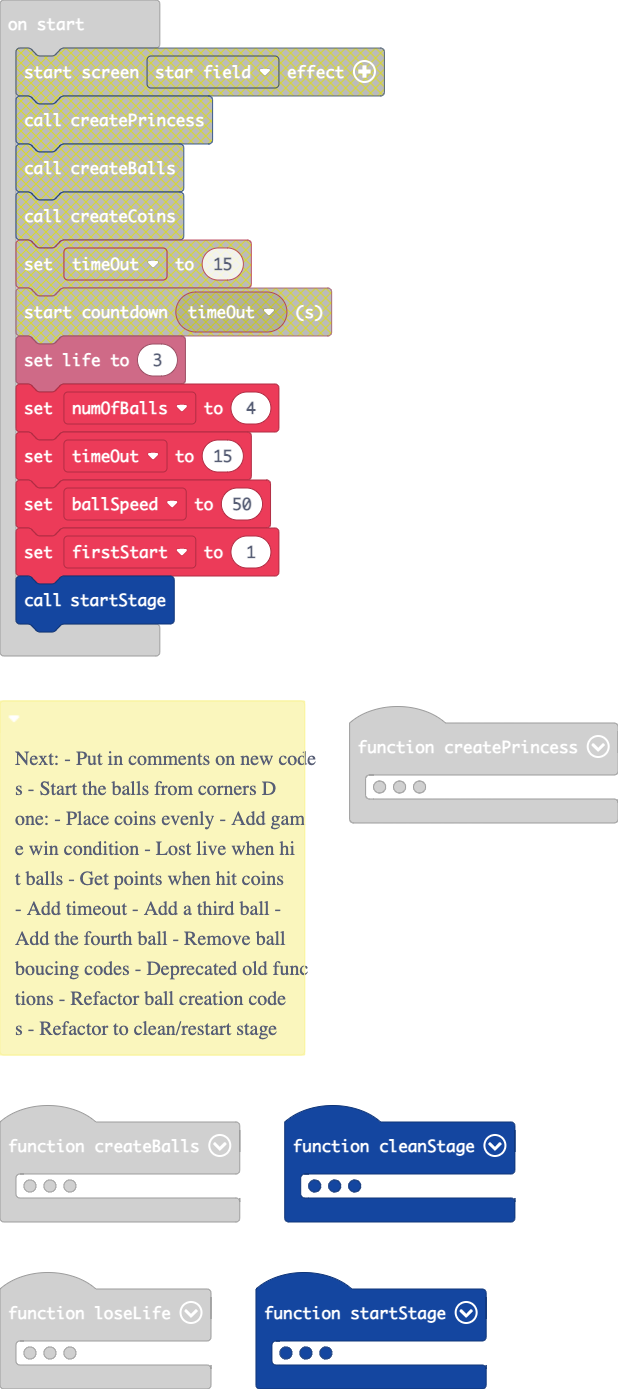
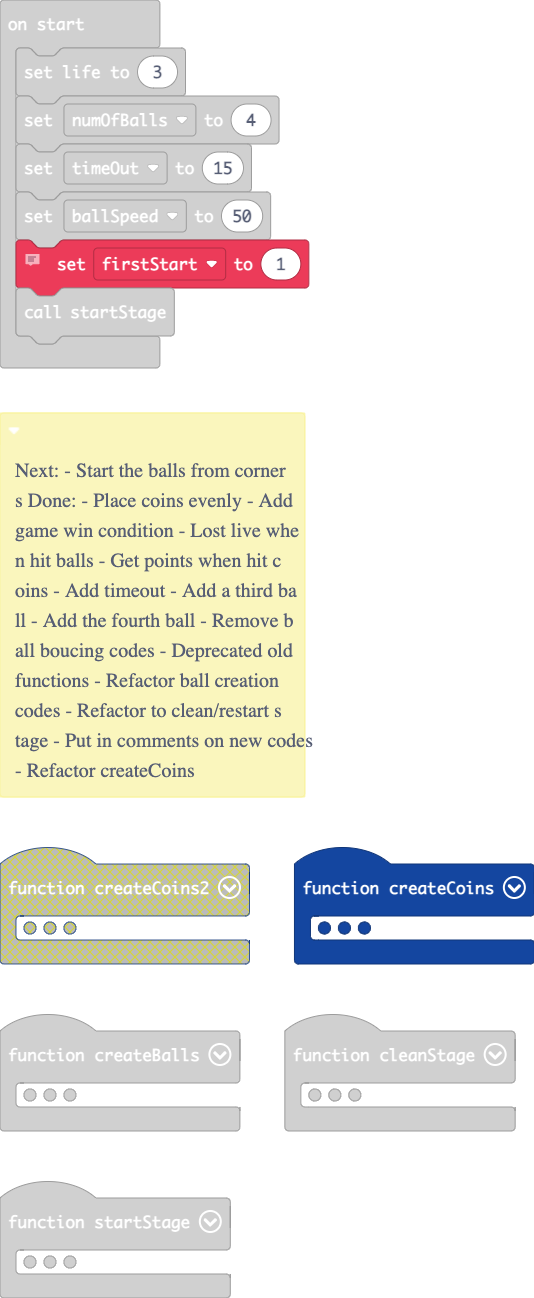
Refactor createCoins and add comments

diff --git a/main.ts b/main.ts
@@ -1,8 +1,6 @@
 /**
  * Next:
  * 
- * - Put in comments on new codes
- * 
  * - Start the balls from corners
  * 
  * Done:
@@ -28,6 +26,10 @@
  * - Refactor ball creation codes
  * 
  * - Refactor to clean/restart stage
+ * 
+ * - Put in comments on new codes
+ * 
+ * - Refactor createCoins
  */
 function createPrincess () {
     Princess = sprites.create(img`
@@ -53,9 +55,11 @@ function createPrincess () {
     controller.moveSprite(Princess)
 }
 function startStage () {
+    // only create background and coins when start game first time
     if (firstStart == 1) {
         effects.starField.startScreenEffect()
         createCoins()
+        // reset game first start flag
         firstStart = 0
     }
     createPrincess()
@@ -103,6 +107,7 @@ function deprecated_move (ball: Sprite) {
     }
 }
 function createBalls () {
+    // create an empty array for all enemy balls
     EnemyBalls = []
     for (let index = 0; index < numOfBalls; index++) {
         EnemyBall = sprites.create(img`
@@ -127,61 +132,29 @@ function createBalls () {
         EnemyBall.y = randint(40, scene.screenHeight() - 10)
         EnemyBall.setVelocity(ballSpeed, ballSpeed)
         EnemyBall.setBounceOnWall(true)
+        // add each ball to enemy balls array
         EnemyBalls.push(EnemyBall)
     }
 }
 function createCoins () {
-    for (let index = 0; index <= 9; index++) {
-        GoldCoin = sprites.create(img`
-            . . . b b b . . 
-            . . b 5 5 5 b . 
-            . b 5 d 3 d 5 b 
-            . b 5 1 5 3 5 b 
-            . c d 1 5 3 5 c 
-            . c d d 1 d 5 c 
-            . . f d d d f . 
-            . . . f f f . . 
-            `, SpriteKind.Food)
-        GoldCoin.setPosition((index + 1) * 15, 50)
-    }
-    for (let index = 0; index <= 9; index++) {
-        GoldCoin = sprites.create(img`
-            . . . b b b . . 
-            . . b 5 5 5 b . 
-            . b 5 d 3 d 5 b 
-            . b 5 1 5 3 5 b 
-            . c d 1 5 3 5 c 
-            . c d d 1 d 5 c 
-            . . f d d d f . 
-            . . . f f f . . 
-            `, SpriteKind.Food)
-        GoldCoin.setPosition((index + 1) * 15, 70)
-    }
-    for (let index = 0; index <= 9; index++) {
-        GoldCoin = sprites.create(img`
-            . . . b b b . . 
-            . . b 5 5 5 b . 
-            . b 5 d 3 d 5 b 
-            . b 5 1 5 3 5 b 
-            . c d 1 5 3 5 c 
-            . c d d 1 d 5 c 
-            . . f d d d f . 
-            . . . f f f . . 
-            `, SpriteKind.Food)
-        GoldCoin.setPosition((index + 1) * 15, 90)
-    }
-    for (let index = 0; index <= 9; index++) {
-        GoldCoin = sprites.create(img`
-            . . . b b b . . 
-            . . b 5 5 5 b . 
-            . b 5 d 3 d 5 b 
-            . b 5 1 5 3 5 b 
-            . c d 1 5 3 5 c 
-            . c d d 1 d 5 c 
-            . . f d d d f . 
-            . . . f f f . . 
-            `, SpriteKind.Food)
-        GoldCoin.setPosition((index + 1) * 15, 110)
+    // set coins starting position Y
+    coinsPosY = 50
+    for (let index = 0; index < 4; index++) {
+        for (let index = 0; index <= 9; index++) {
+            GoldCoin = sprites.create(img`
+                . . . b b b . . 
+                . . b 5 5 5 b . 
+                . b 5 d 3 d 5 b 
+                . b 5 1 5 3 5 b 
+                . c d 1 5 3 5 c 
+                . c d d 1 d 5 c 
+                . . f d d d f . 
+                . . . f f f . . 
+                `, SpriteKind.Food)
+            GoldCoin.setPosition((index + 1) * 15, coinsPosY)
+        }
+        // move to coins next position Y
+        coinsPosY += 20
     }
 }
 sprites.onOverlap(SpriteKind.Player, SpriteKind.Food, function (sprite, otherSprite) {
@@ -191,6 +164,7 @@ sprites.onOverlap(SpriteKind.Player, SpriteKind.Food, function (sprite, otherSpr
 })
 function cleanStage () {
     Princess.destroy()
+    // destroy all elements in EnemyBalls array
     for (let index = 0; index <= EnemyBalls.length - 1; index++) {
         EnemyBalls[index].destroy()
     }
@@ -215,6 +189,7 @@ function createCoins_atRandPos () {
     }
 }
 let GoldCoin: Sprite = null
+let coinsPosY = 0
 let EnemyBall: Sprite = null
 let EnemyBalls: Sprite[] = []
 let Princess: Sprite = null
@@ -226,6 +201,7 @@ info.setLife(3)
 numOfBalls = 4
 timeOut = 15
 ballSpeed = 50
+// set game start flag for startStage
 firstStart = 1
 startStage()
 game.onUpdateInterval(500, function () {

diff --git a/images.g.ts b/images.g.ts
@@ -31,46 +31,6 @@ f b b 4 1 f d d f 1 4 b b f
 . . f d d d f . 
 . . . f f f . . 
 `;
-            case "image4":return img`
-. . . b b b . . 
-. . b 5 5 5 b . 
-. b 5 d 3 d 5 b 
-. b 5 1 5 3 5 b 
-. c d 1 5 3 5 c 
-. c d d 1 d 5 c 
-. . f d d d f . 
-. . . f f f . . 
-`;
-            case "image5":return img`
-. . . b b b . . 
-. . b 5 5 5 b . 
-. b 5 d 3 d 5 b 
-. b 5 1 5 3 5 b 
-. c d 1 5 3 5 c 
-. c d d 1 d 5 c 
-. . f d d d f . 
-. . . f f f . . 
-`;
-            case "image6":return img`
-. . . b b b . . 
-. . b 5 5 5 b . 
-. b 5 d 3 d 5 b 
-. b 5 1 5 3 5 b 
-. c d 1 5 3 5 c 
-. c d d 1 d 5 c 
-. . f d d d f . 
-. . . f f f . . 
-`;
-            case "image7":return img`
-. . . b b b . . 
-. . b 5 5 5 b . 
-. b 5 d 3 d 5 b 
-. b 5 1 5 3 5 b 
-. c d 1 5 3 5 c 
-. c d d 1 d 5 c 
-. . f d d d f . 
-. . . f f f . . 
-`;
             case "image10":return img`
 . . . . . f f f f . . . . . 
 . . . f f 5 5 5 5 f f . . . 
@@ -350,6 +310,96 @@ f b b 4 1 f d d f 1 4 b b f
 . . . . 4 4 2 2 2 2 4 4 . . . . 
 . . . . . . 4 4 4 4 . . . . . . 
 . . . . . . . . . . . . . . . . 
+`;
+            case "image2":return img`
+. . . b b b . . 
+. . b 5 5 5 b . 
+. b 5 d 3 d 5 b 
+. b 5 1 5 3 5 b 
+. c d 1 5 3 5 c 
+. c d d 1 d 5 c 
+. . f d d d f . 
+. . . f f f . . 
+`;
+            case "image4":return img`
+. . . b b b . . 
+. . b 5 5 5 b . 
+. b 5 d 3 d 5 b 
+. b 5 1 5 3 5 b 
+. c d 1 5 3 5 c 
+. c d d 1 d 5 c 
+. . f d d d f . 
+. . . f f f . . 
+`;
+            case "image5":return img`
+. . . b b b . . 
+. . b 5 5 5 b . 
+. b 5 d 3 d 5 b 
+. b 5 1 5 3 5 b 
+. c d 1 5 3 5 c 
+. c d d 1 d 5 c 
+. . f d d d f . 
+. . . f f f . . 
+`;
+            case "image6":return img`
+. . . b b b . . 
+. . b 5 5 5 b . 
+. b 5 d 3 d 5 b 
+. b 5 1 5 3 5 b 
+. c d 1 5 3 5 c 
+. c d d 1 d 5 c 
+. . f d d d f . 
+. . . f f f . . 
+`;
+            case "image7":return img`
+. . . b b b . . 
+. . b 5 5 5 b . 
+. b 5 d 3 d 5 b 
+. b 5 1 5 3 5 b 
+. c d 1 5 3 5 c 
+. c d d 1 d 5 c 
+. . f d d d f . 
+. . . f f f . . 
+`;
+            case "image8":return img`
+. . . b b b . . 
+. . b 5 5 5 b . 
+. b 5 d 3 d 5 b 
+. b 5 1 5 3 5 b 
+. c d 1 5 3 5 c 
+. c d d 1 d 5 c 
+. . f d d d f . 
+. . . f f f . . 
+`;
+            case "image9":return img`
+. . . b b b . . 
+. . b 5 5 5 b . 
+. b 5 d 3 d 5 b 
+. b 5 1 5 3 5 b 
+. c d 1 5 3 5 c 
+. c d d 1 d 5 c 
+. . f d d d f . 
+. . . f f f . . 
+`;
+            case "image28":return img`
+. . . b b b . . 
+. . b 5 5 5 b . 
+. b 5 d 3 d 5 b 
+. b 5 1 5 3 5 b 
+. c d 1 5 3 5 c 
+. c d d 1 d 5 c 
+. . f d d d f . 
+. . . f f f . . 
+`;
+            case "image29":return img`
+. . . b b b . . 
+. . b 5 5 5 b . 
+. b 5 d 3 d 5 b 
+. b 5 1 5 3 5 b 
+. c d 1 5 3 5 c 
+. c d d 1 d 5 c 
+. . f d d d f . 
+. . . f f f . . 
 `;
         }
         return null;
